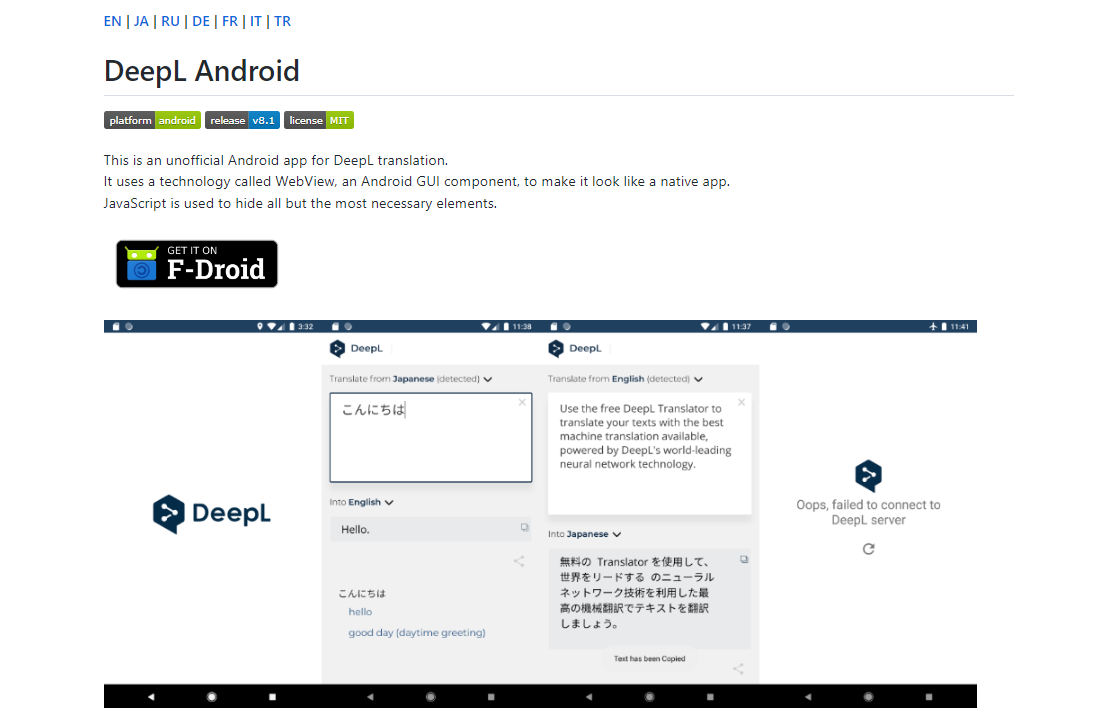
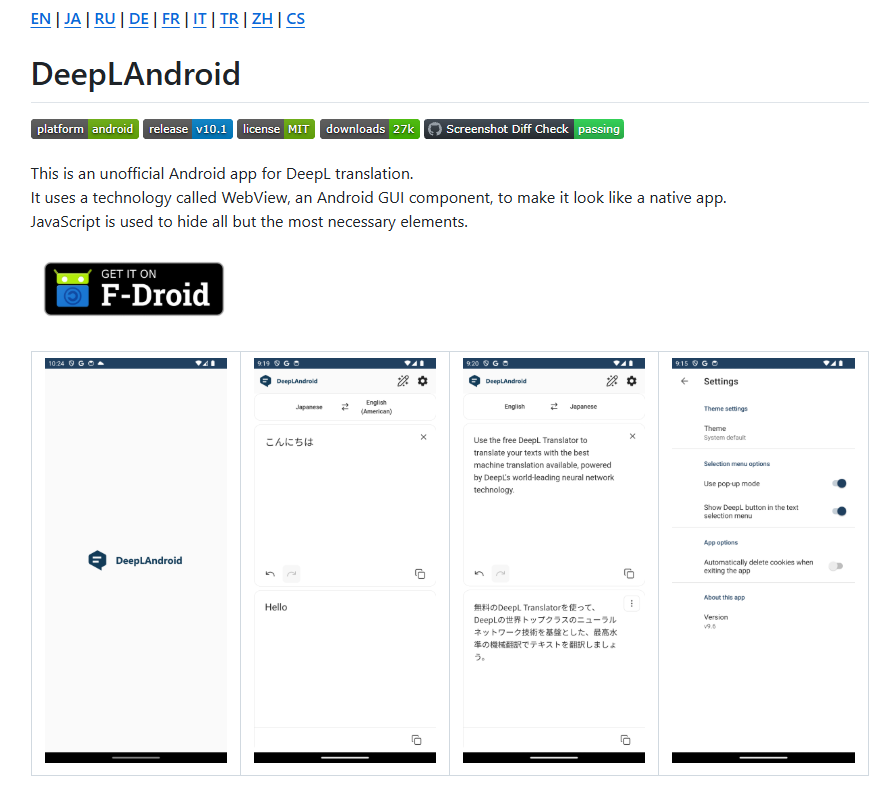
style: DeepLAndroidの記事とサムネイルを更新

diff --git a/posts/deepl-android.md b/posts/deepl-android.md
@@ -1,17 +1,17 @@
 ---
-title: OSS版 DeepL翻訳アプリ
+title: DeepLAndroid
 tag: Android, Kotlin, OSS
-overview: 非公式のDeepL翻訳サードパーティアプリ開発
+overview: 非公式のDeepL翻訳サードパーティアプリのOSS開発
 date: 2020.8.1
-pinned: true
+#pinned: true
 ---
 
 2020年の当時、DeepL公式のAndroidアプリが無く、わざわざブラウザからアクセスする必要がありました。そこで、WebViewとJavaScriptを使用して、シンプルなDeepL翻訳サードパーティアプリを開発しました。
 
-アプリをOSS化したところ大きな反響があり、2025年1月時点で <a href="https://github.com/sakusaku3939/DeepLAndroid/issues?q=is%3Aissue+is%3Aclosed" target="_blank">68個の解決済みIssues</a> と <a href="https://github.com/sakusaku3939/DeepLAndroid/pulls?q=is%3Apr+is%3Aclosed" target="_blank">48個のPull requests</a> がマージされました。
+アプリをOSS化したところ大きな反響があり、GitHubで500スターを達成し、2025年1月時点で <a href="https://github.com/sakusaku3939/DeepLAndroid/issues?q=is%3Aissue+is%3Aclosed" target="_blank">68個の解決済みIssues</a> と <a href="https://github.com/sakusaku3939/DeepLAndroid/pulls?q=is%3Apr+is%3Aclosed" target="_blank">48個のPull requests</a> がマージされました。
 アプリ自体の言語は英語・日本語に加え、コントリビューターにより計11ヶ国語に対応しています。
 
-また、OSS専用アプリストアのF-Droidにリリースを行い、2021年から現在まで公開されています。
+また、OSS専用アプリストアのF-Droidにリリースを行い、2021年から2026年まで5年ほど公開していました。
 https://github.com/sakusaku3939/DeepLAndroid
 
 ![](/public/posts/deepl-android/screenshot.png)
@@ -23,7 +23,7 @@ WebViewを使用し、必要な要素以外はJavaScriptで隠すことでネイ
 |--------------------------------------------------|---------------------------------------------------|-----------------------------------------------------|
 | ![](/public/posts/deepl-android/main-screen.png) | ![](/public/posts/deepl-android/context-menu.gif) | ![](/public/posts/deepl-android/setting-screen.png) |
 
-# スクリーンショットによる表示崩れの自動検知
+# スクリーンショットによる表示崩れのCI検知
 
 WebViewで表示しているDeepL翻訳のページは、不定期にデザインアップデートが入ることで要素のIDや配置が変わり、JavaScriptによる要素の非表示処理が効かなくなることがありました。結果として、ユーザーからのIssue報告を受けるまで発見が遅れ、数日間アプリが壊れた状態で放置されてしまうケースがありました。
 
@@ -46,8 +46,7 @@ CIは以下のフローによって行われます。
 
 ![](/public/posts/deepl-android/webview-test3.png)
 
-# コントリビューターの協力
-Thank you to @S-H-Y-A, @fm-sys, @Mephodio, ... and all contributors!
+# 議論
 
 - 選択メニューからDeepLアプリを起動
   - Pull Requests: [#25](https://github.com/sakusaku3939/DeepLAndroid/pull/25), [#40](https://github.com/sakusaku3939/DeepLAndroid/pull/40), [#57](https://github.com/sakusaku3939/DeepLAndroid/pull/57), [#67](https://github.com/sakusaku3939/DeepLAndroid/pull/67)
